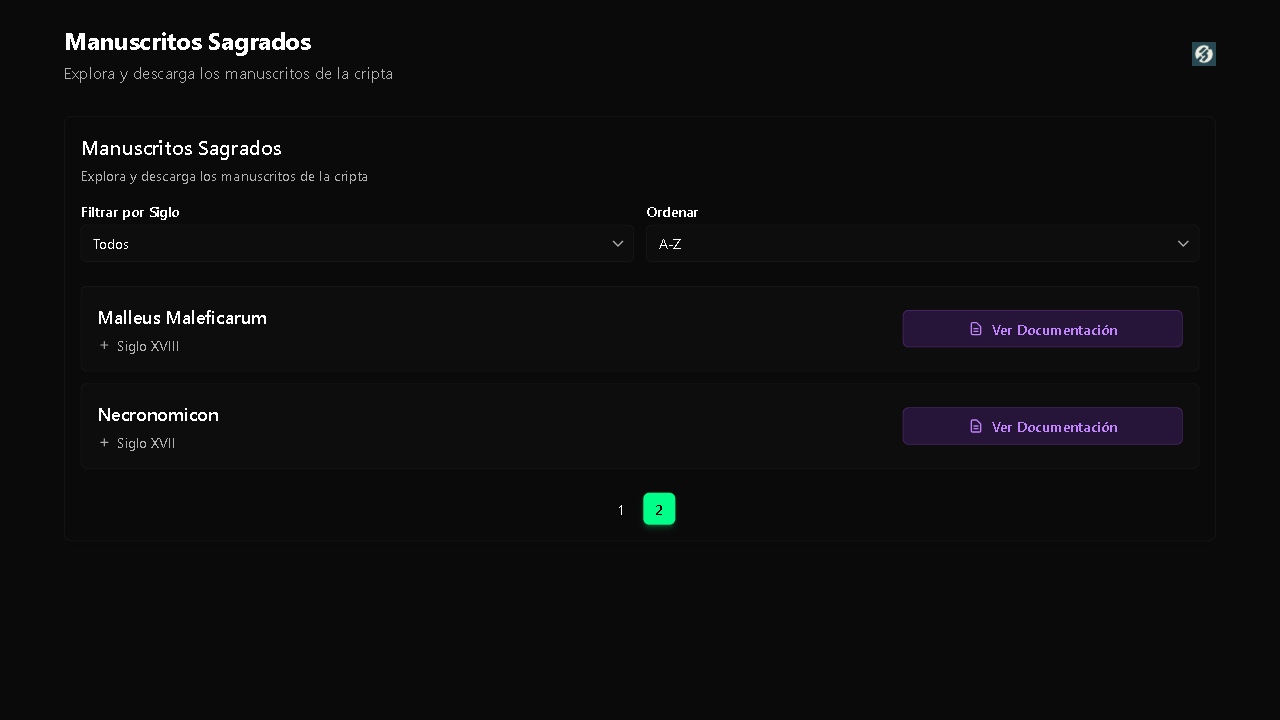
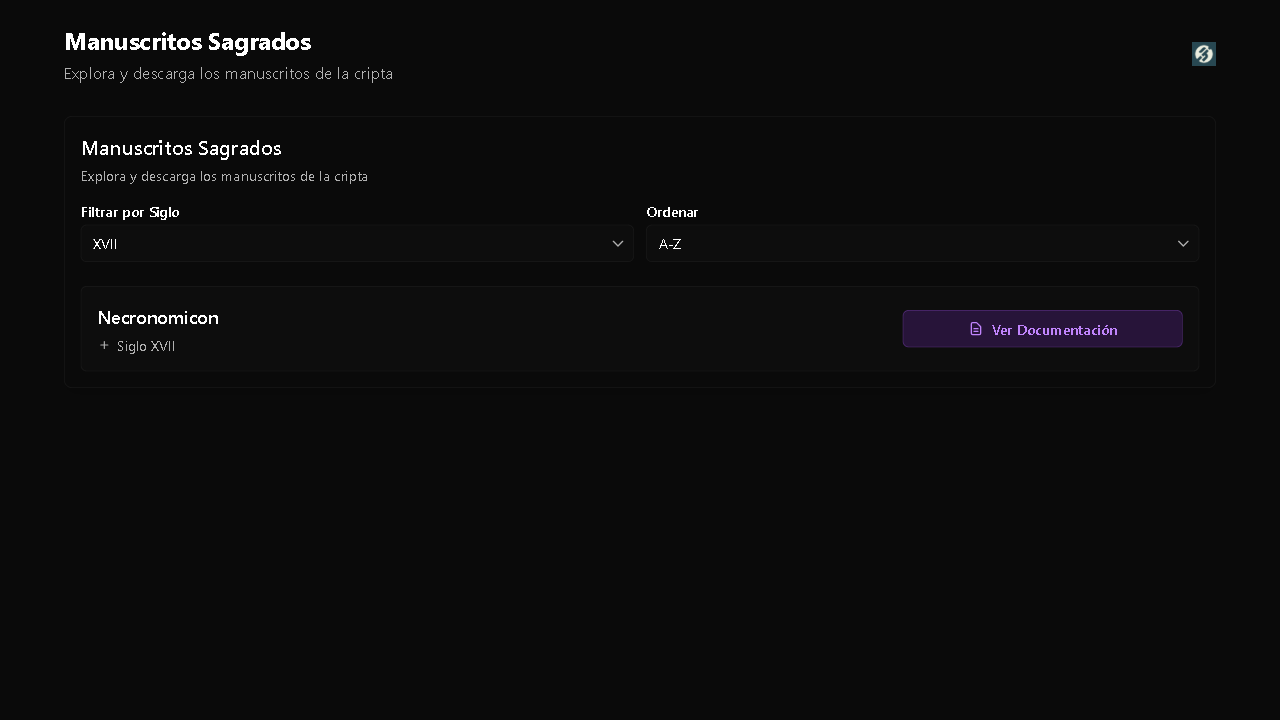
Siglos desbloqueados

diff --git a/tests/danza-hibrida.spec.ts b/tests/danza-hibrida.spec.ts
@@ -815,8 +815,10 @@ test('Danza de Siglos - Sistema Híbrido', async ({ page }) => {
               await downloadXVI.saveAs(pdfPathXVI);
               console.log(`- PDF descargado: ${pdfPathXVI}`);
               
-              // No es necesario extraer código del último manuscrito
-              console.log('- No se requiere código del último manuscrito');
+              // Extraer código utilizando el sistema avanzado
+              console.log('- Intentando extraer código del PDF...');
+              codigos['XVI'] = await extractor.extractCode(pdfPathXVI, 'XVI');
+              console.log(`✅ Código para Siglo XVI: ${codigos['XVI']}`);
               siglosProcesados['XVI'] = true;
             } catch (error) {
               console.log(`⚠ Error al desbloquear o descargar el PDF: ${error.message}`);
@@ -843,7 +845,6 @@ test('Danza de Siglos - Sistema Híbrido', async ({ page }) => {
           const pdfPathXVI = path.join(downloadPath, 'siglo-XVI.pdf');
           await downloadXVI.saveAs(pdfPathXVI);
           console.log(`- PDF descargado: ${pdfPathXVI}`);
-          console.log('- No se requiere código del último manuscrito');
           siglosProcesados['XVI'] = true;
         } else {
           console.log('⚠ No se encontró forma de obtener el PDF del Siglo XVI');
@@ -864,11 +865,7 @@ test('Danza de Siglos - Sistema Híbrido', async ({ page }) => {
   // RESUMEN FINAL
   console.log('\n📊 RESUMEN DE CÓDIGOS:');
   for (const siglo of siglosOrdenados) {
-    if (siglo === 'XVI') {
-      console.log(`Siglo ${siglo}: No necesario (último manuscrito)`);
-    } else {
-      console.log(`Siglo ${siglo}: ${codigos[siglo]}`);
-    }
+    console.log(`Siglo ${siglo}: ${codigos[siglo]}`);
   }
   
   if (todosCompletados) {
@@ -1104,14 +1101,22 @@ test('Danza de Siglos - Sistema Híbrido', async ({ page }) => {
     try {
       console.log(`🔍 Buscando manuscrito arcano del Siglo ${siglo}...`);
       
-      // En lugar de intentar filtrar, nos centramos directamente en buscar el manuscrito
+      // Usar el selector de filtro por siglos como en la primera página
+      console.log(`Intentando filtrar por Siglo ${siglo} usando el selector...`);
+      const selectorUsado = await usarSelectorSiglos(siglo);
       
-      // Buscar el texto específico del siglo
-      const textoSiglo = page.locator('span').getByText(`Siglo ${siglo}`, { exact: true });
-      
-      if (await textoSiglo.count() === 0) {
-        console.log(`⚠ No se encontró manuscrito del Siglo ${siglo}`);
-        return false;
+      if (selectorUsado) {
+        console.log(`✅ Filtrado por Siglo ${siglo} completado`);
+        await page.waitForTimeout(1000);
+      } else {
+        // Si el selector no funciona, buscar directamente como antes
+        // Buscar el texto específico del siglo
+        const textoSiglo = page.locator('span').getByText(`Siglo ${siglo}`, { exact: true });
+        
+        if (await textoSiglo.count() === 0) {
+          console.log(`⚠ No se encontró manuscrito del Siglo ${siglo}`);
+          return false;
+        }
       }
       
       console.log(`✅ Encontrado manuscrito del Siglo ${siglo}`);
@@ -1142,7 +1147,10 @@ test('Danza de Siglos - Sistema Híbrido', async ({ page }) => {
         return false;
       }
       
-      console.log(`✅ Mensaje del guardián para Siglo ${siglo}: "${mensajeAlerta}"`);
+      // Mostrar solo una parte del mensaje del guardián
+      const mensajeCorto = mensajeAlerta.length > 100 ? 
+        mensajeAlerta.substring(0, 100) + "..." : mensajeAlerta;
+      console.log(`✅ Mensaje del guardián para Siglo ${siglo}: "${mensajeCorto}"`);
       
       // Aquí se implementará la lógica para procesar el desafío basado en el mensaje
       const desafioResuelto = await resolverDesafioArcano(page, siglo, mensajeAlerta);
@@ -1218,10 +1226,14 @@ test('Danza de Siglos - Sistema Híbrido', async ({ page }) => {
           // Intentar obtener el texto del modal
           const textoModal = await modal.textContent() || '';
           
+          // Mostrar solo una parte del mensaje (más corta)
+          const mensajeCorto = textoModal.length > 100 ? 
+            textoModal.substring(0, 100) + "..." : textoModal;
+          
           // Cerrar el modal si es posible
           await cerrarModal(page, modal);
           
-          return textoModal;
+          return textoModal; // Devolvemos el texto completo para procesamiento interno
         }
       }
       
@@ -1657,6 +1669,7 @@ test('Danza de Siglos - Sistema Híbrido', async ({ page }) => {
         
         // Buscar botón X para cerrar el modal
         const botonCerrarModal = modal.locator('button, svg.close-icon, .btn-close').first();
+        
         
         if (await botonCerrarModal.count() > 0) {
           console.log('✅ Botón para cerrar modal encontrado');
